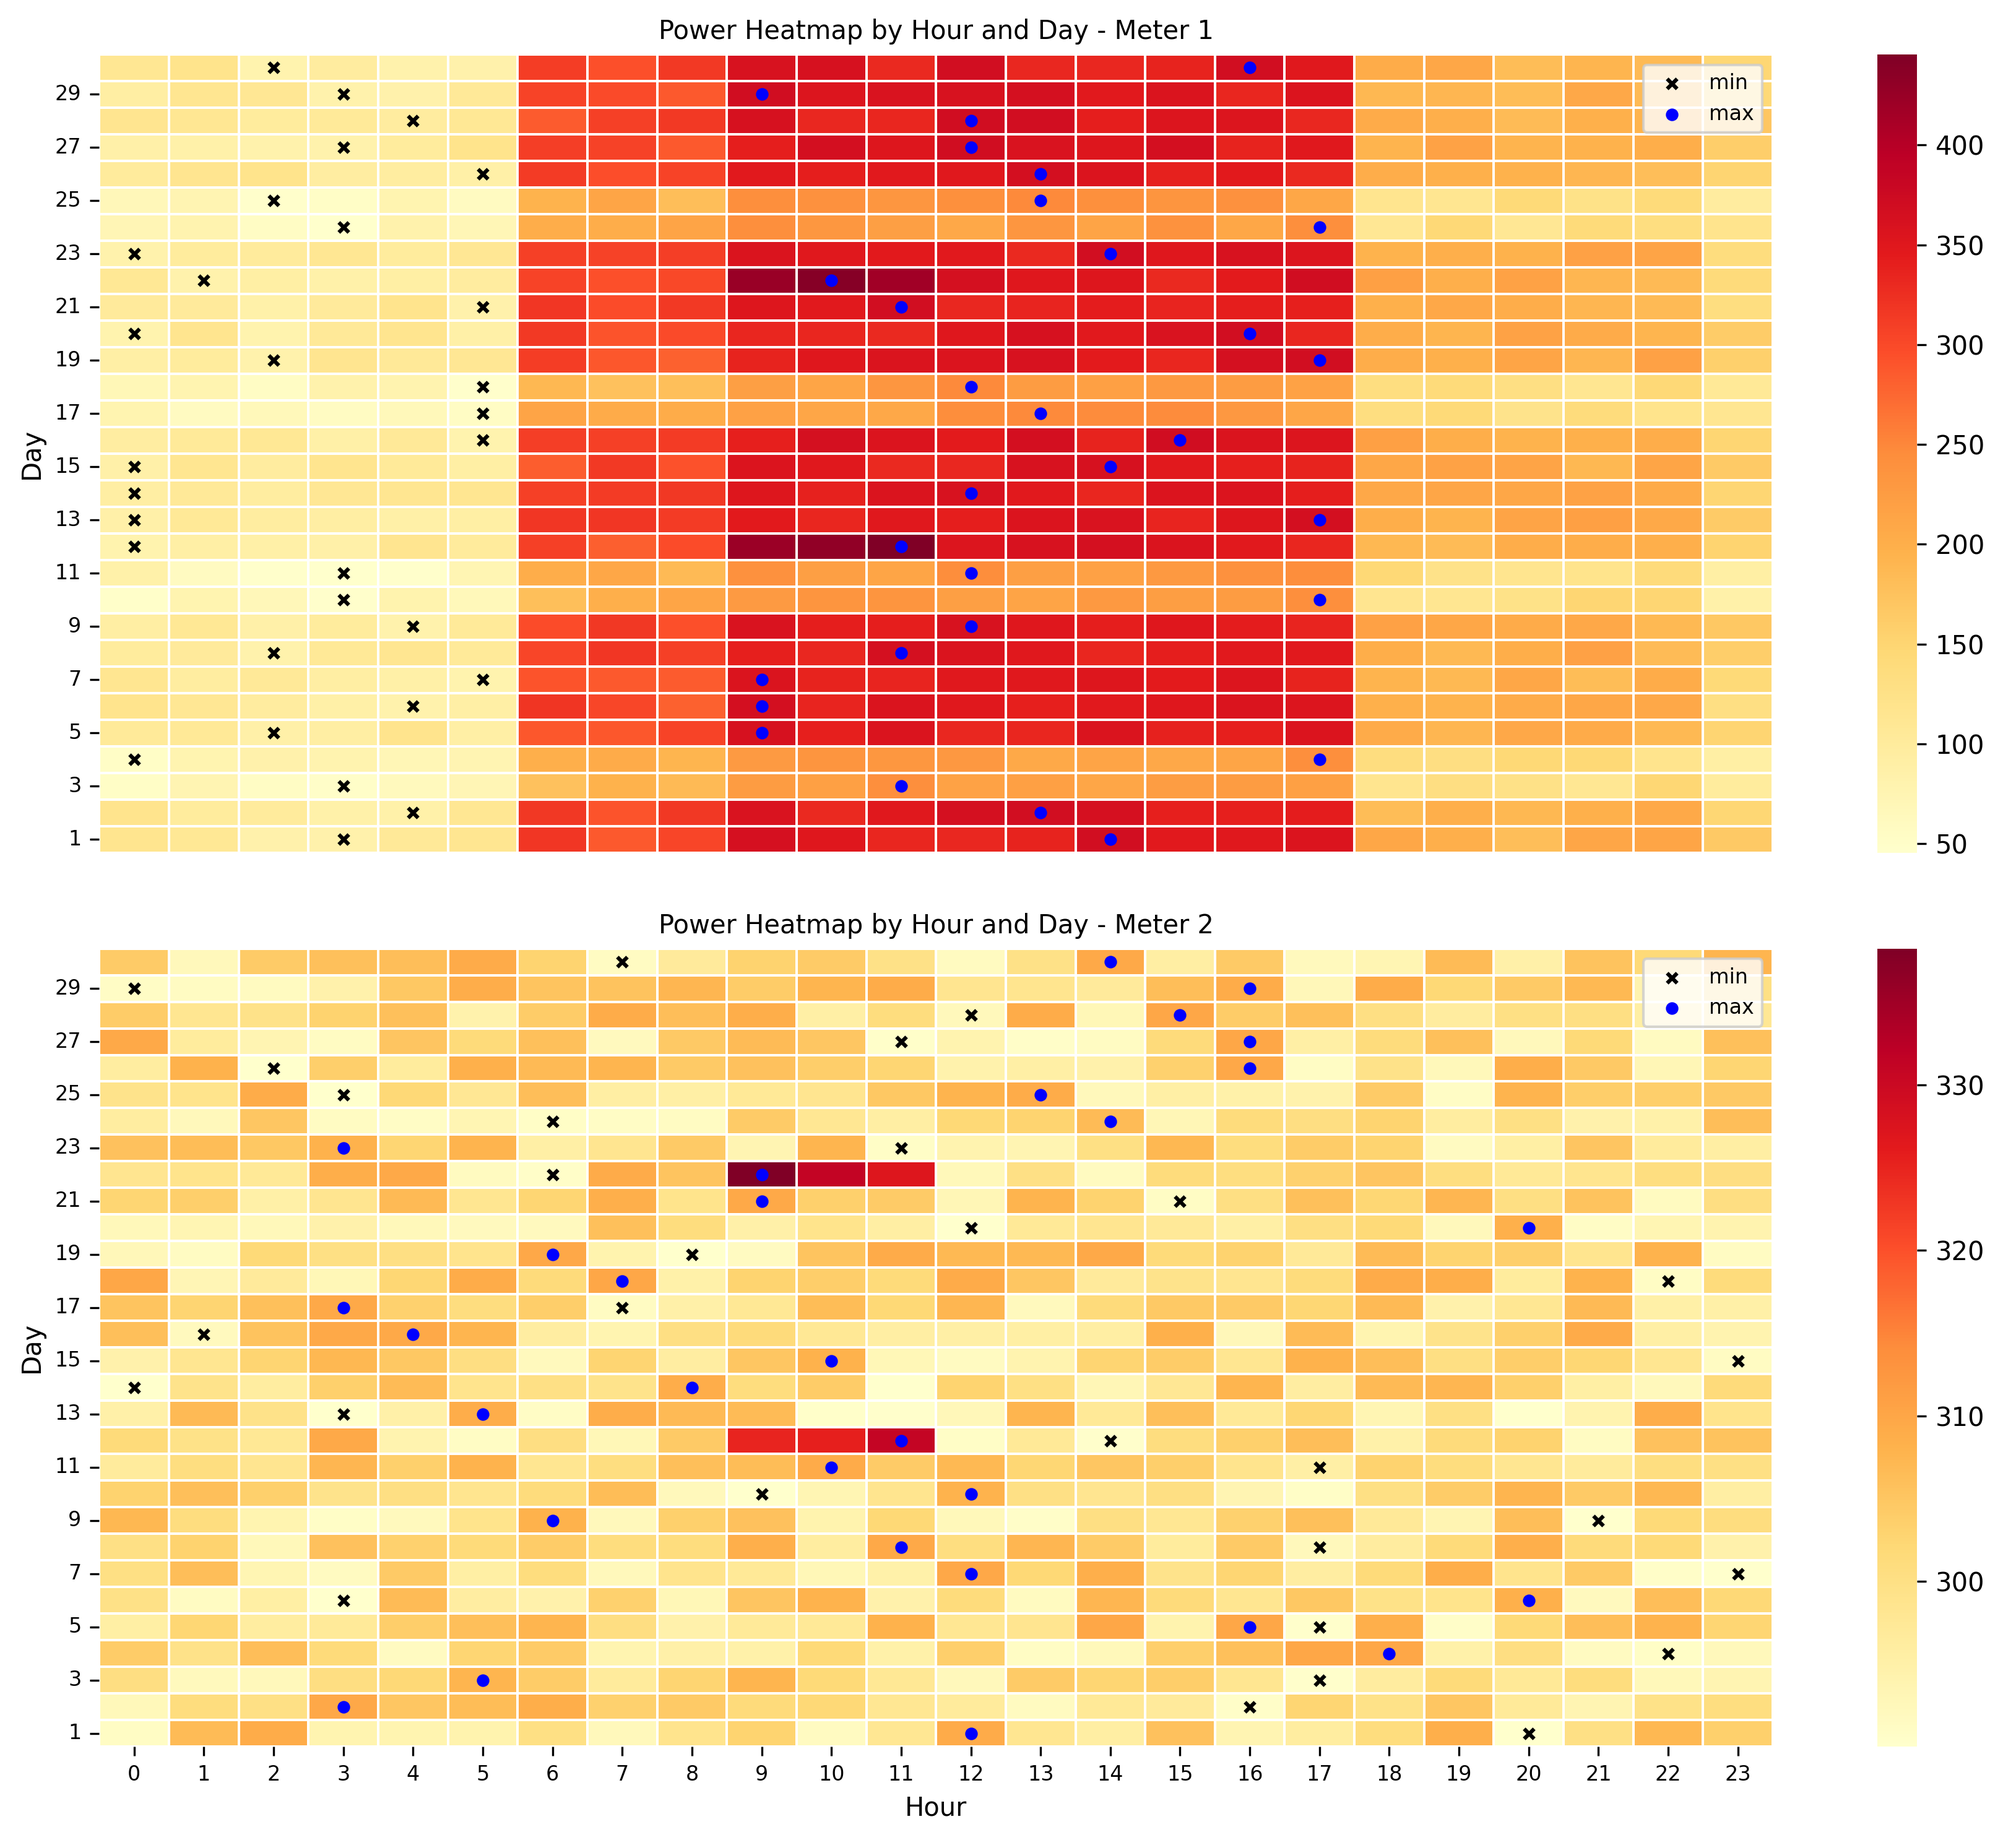
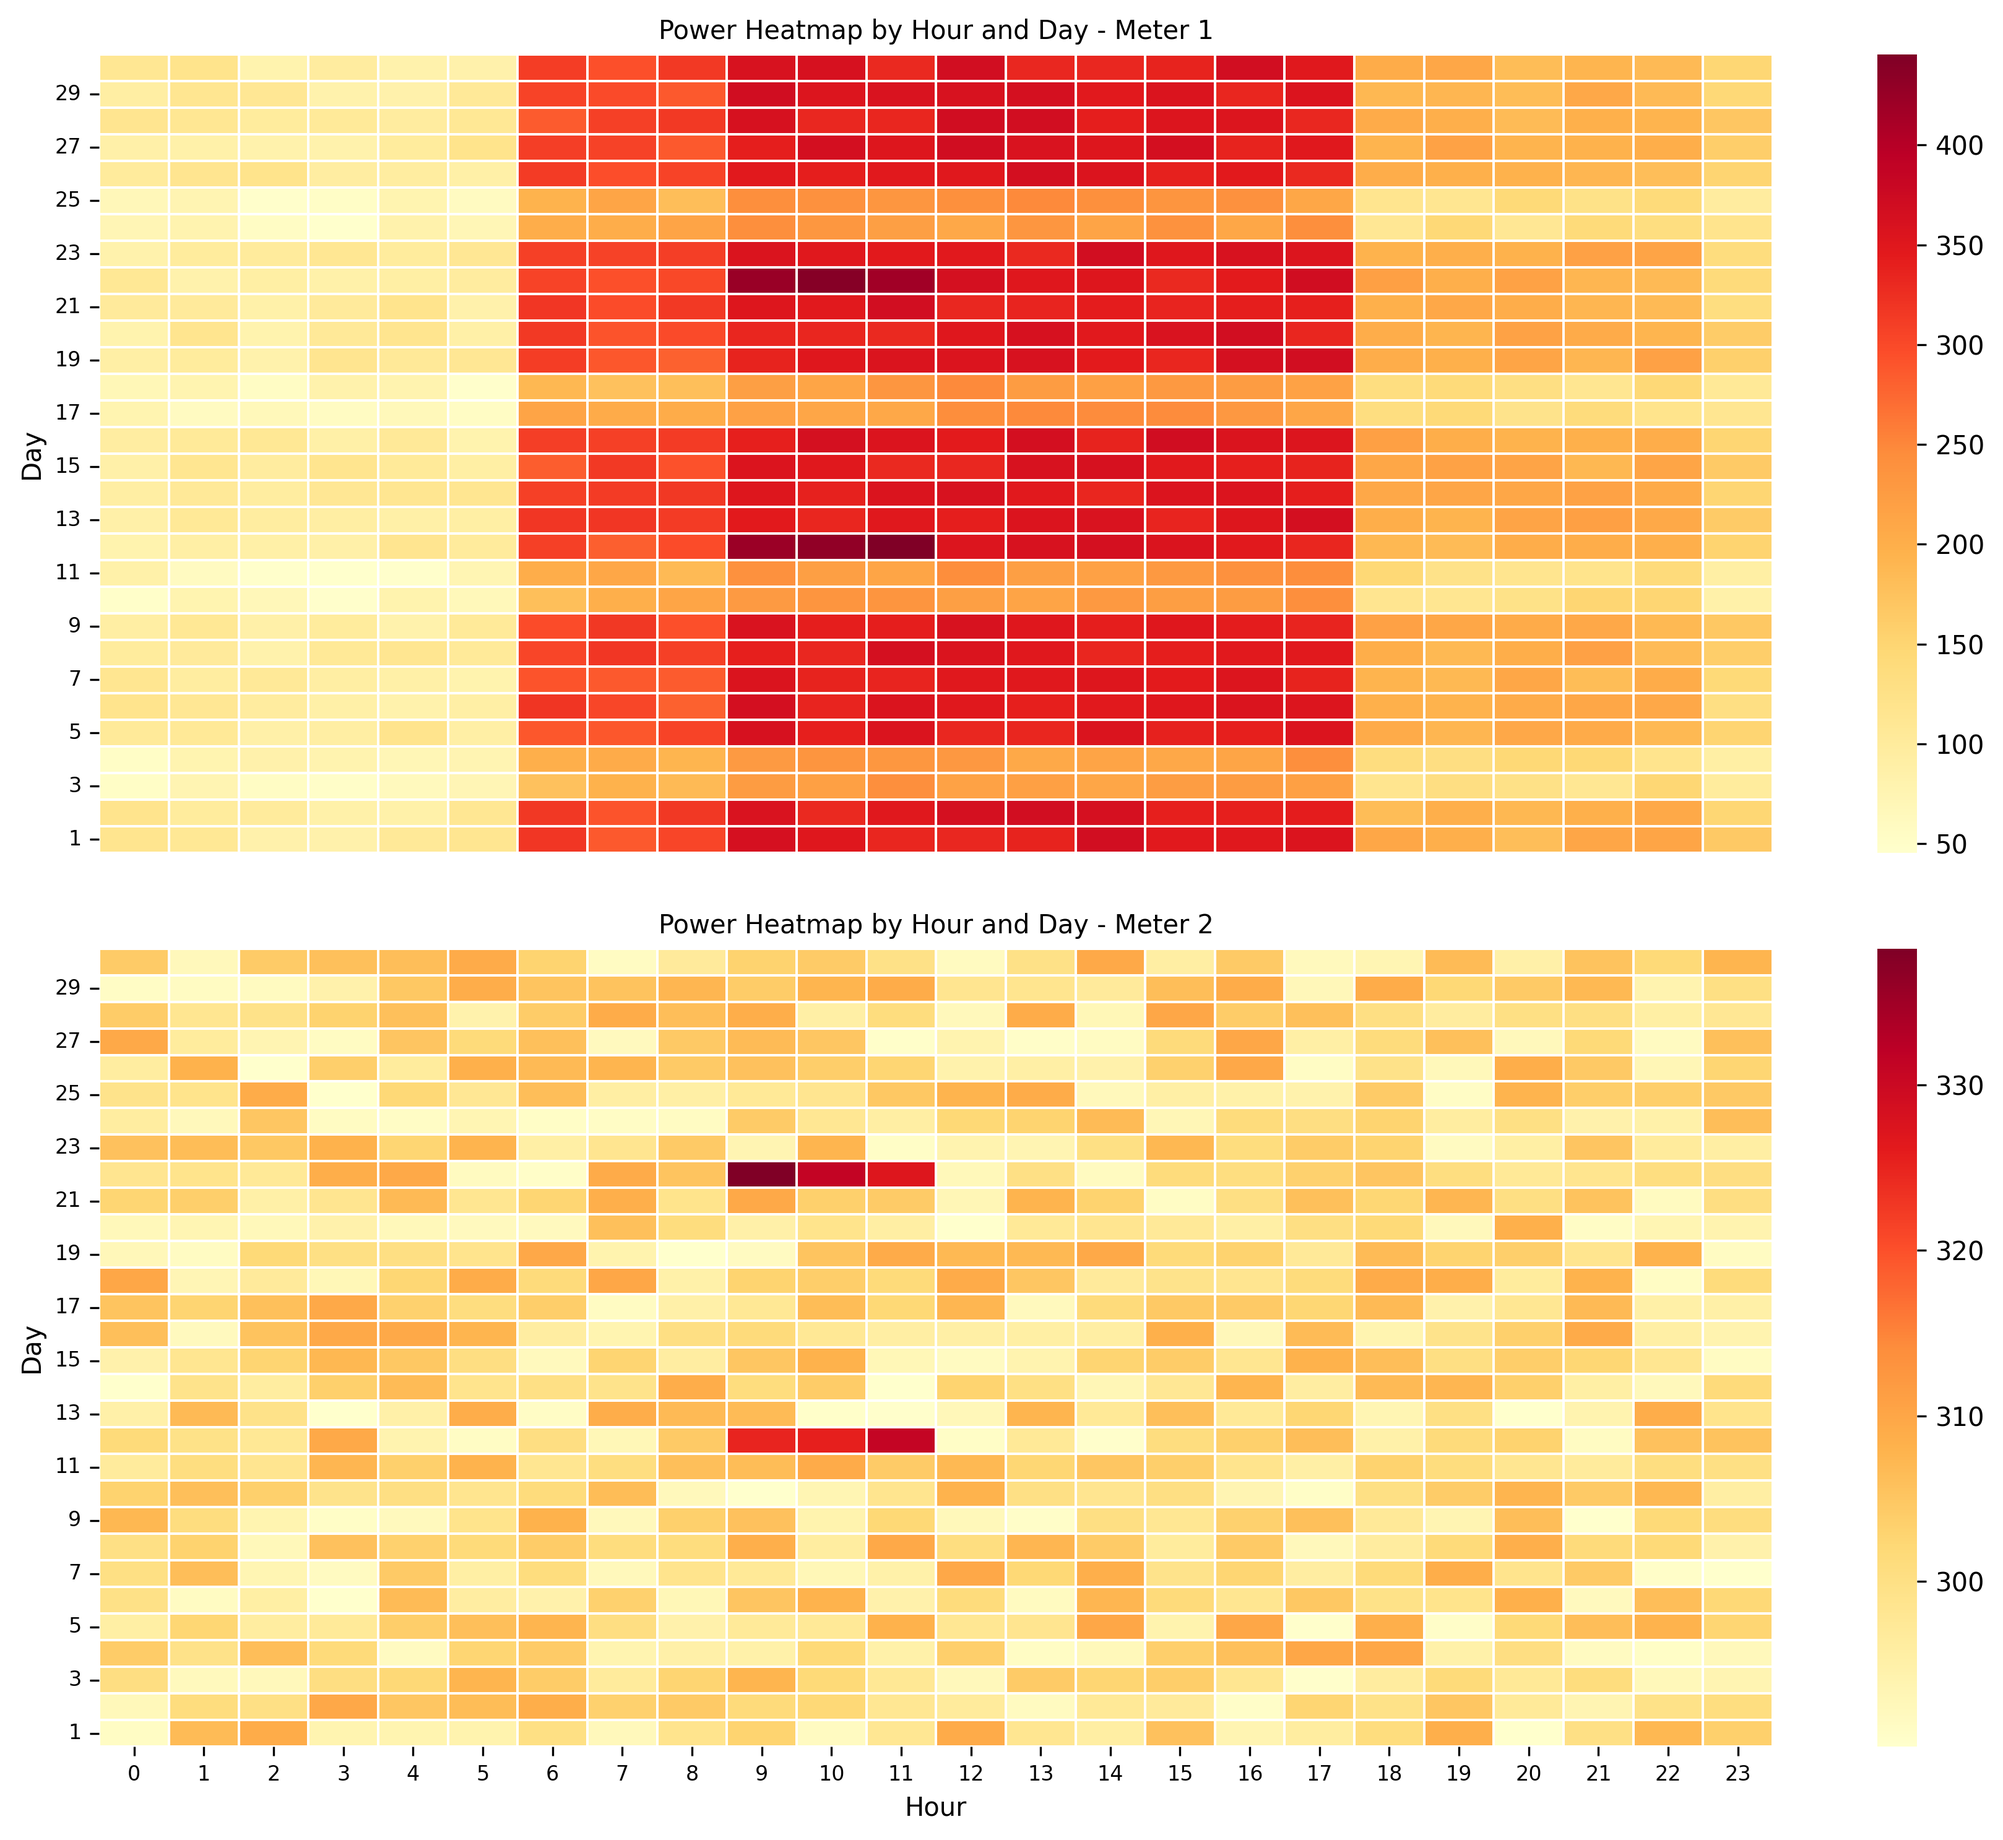
modification des scripts python pour améliorer l'affichage des résultats

Changed region(s): [[0.8115, 0.4951, 0.9051, 0.557], [0.8115, 0.0309, 0.9051, 0.0928]]

diff --git a/python/P2_exploratory_analysis.py b/python/P2_exploratory_analysis.py
@@ -131,23 +131,6 @@ def run(df, results_dir):
             # données Heatmap
             heat = df_type.pivot_table(index="jour", columns="heure", values="power_kw", aggfunc="mean")
             
-            # min et max par jour de la puissance
-            min_points = df_type.loc[df_type.groupby("jour")["power_kw"].idxmin()]
-            max_points = df_type.loc[df_type.groupby("jour")["power_kw"].idxmax()]
-
-            # créer un matrice booléenne de la même taille que heat (False partout au départ)
-            min_matrix = pd.DataFrame(False, index=heat.index, columns=heat.columns)
-            max_matrix = pd.DataFrame(False, index=heat.index, columns=heat.columns)
-            
-            # remplacer les false par des true là où les min et max sont identifiées
-            for _, row in min_points.iterrows():
-                if row["jour"] in heat.index and row["heure"] in heat.columns:
-                    min_matrix.loc[row["jour"], row["heure"]] = True
-
-            for _, row in max_points.iterrows():
-                if row["jour"] in heat.index and row["heure"] in heat.columns:
-                    max_matrix.loc[row["jour"], row["heure"]] = True
-
             # tracer heatmap
             sns.heatmap(heat, cmap='YlOrRd', linewidths=0.5, annot=False, ax=ax)
             ax.set_xlabel("Hour", fontsize=10)
@@ -160,16 +143,6 @@ def run(df, results_dir):
 
             # cacher l'axe X pour le premier subplot
             if i == 0: ax.xaxis.set_visible(False)
-
-            # récuperer toutes les positions où la valeur est True dans les matrices min_matrix et max_matrix
-            jours_min, heures_min = np.where(min_matrix)
-            jours_max, heures_max = np.where(max_matrix)
-            
-            # afficher les points min et max sur ta heatmap (au centre des cases concernées)
-            ax.scatter(heures_min+0.5, jours_min+0.5, color='black', marker='x', s=15, label='min')
-            ax.scatter(heures_max+0.5, jours_max+0.5, color='blue', marker='o', s=15, label='max')
-
-            ax.legend(loc="upper right", fontsize=8)
             
 
         plt.tight_layout(h_pad=2)

diff --git a/python/P6_machine_learning_models.py b/python/P6_machine_learning_models.py
@@ -18,6 +18,8 @@ def run(df, results_dir):
         corr_lag0 = corr_lag[0]  
         best_lag = np.argmin(corr_lag)
         best_corr = corr_lag[best_lag]
+
+        print(f"\nCompteur {meter_id} - Regression linéaire vs Random Forest : ")
         
         for i, use_shifted in enumerate([False, True]):
 
@@ -32,6 +34,7 @@ def run(df, results_dir):
             y_pred = coef[0]*x + coef[1]
             mae = mean_absolute_error(y, y_pred)
             rmse = np.sqrt(mean_squared_error(y, y_pred))
+            
 
             title = f"Meter {meter_id} ({f'Lag 0, Corr = {corr_lag0:.2f}' if not use_shifted else f'Optimal Lag = {best_lag}h, Corr = {best_corr:.2f}'})"
 
@@ -47,6 +50,8 @@ def run(df, results_dir):
             if i == 1: ax_lr.xaxis.set_visible(False)
             if i == 1: ax_lr.yaxis.set_visible(False)
             ax_lr.tick_params(axis='y', labelsize=8)
+
+            print(f"\nRegression linéaire ({f'Lag 0, Corr = {corr_lag0:.2f}' if not use_shifted else f'Optimal Lag = {best_lag}h, Corr = {best_corr:.2f}'}) : Coef={coef}, MAE={mae:.2f}, RMSE={rmse:.2f}")
 
             # Random Forest
             X_rf = x.reshape(-1,1)
@@ -69,6 +74,8 @@ def run(df, results_dir):
             if i == 1: ax_rf.yaxis.set_visible(False)
             ax_rf.tick_params(axis='x', labelsize=8)
             ax_rf.tick_params(axis='y', labelsize=8)
+
+            print(f"Random Forest ({f'Lag 0, Corr = {corr_lag0:.2f}' if not use_shifted else f'Optimal Lag = {best_lag}h, Corr = {best_corr:.2f}'}) : MAE={mae_rf:.2f}, RMSE={rmse_rf:.2f}")
 
         plt.tight_layout(h_pad=3, w_pad=2)
         plt.savefig(os.path.join(results_dir, "11_linear_regression_vs_random_forest.png"), dpi=300, bbox_inches='tight', facecolor='white')

diff --git a/python/P4_anomaly_detection.py b/python/P4_anomaly_detection.py
@@ -90,9 +90,9 @@ def run(df, results_dir):
 
         # --- Tableau récapitulatif ---
         df_anomalies = pd.concat(all_anomalies).sort_values(["meter_id", "method", "timestamp"])
-        print("\n=== Tableau des anomalies par meter_id et méthode ===")
+        print("\nTableau des anomalies par compteur et méthode :")
         for meter_id, df_meter_group in df_anomalies.groupby("meter_id"):
-            print(f"\n--- Meter {meter_id} ---")
+            print(f"\nCompteur {meter_id} : ")
             for method, df_method_group in df_meter_group.groupby("method"):
                 print(f"\nMéthode : {method}")
                 print(df_method_group[["timestamp", "power_kw"]].reset_index(drop=True))

diff --git a/python/P1_data_loading_cleaning.py b/python/P1_data_loading_cleaning.py
@@ -29,7 +29,7 @@ def run():
 
 
     #!  Nettoyage et structuration des données
-    print("Contrôle de qualité des données :")
+    print("\nContrôle de qualité des données :")
 
     # Vérifier des valeurs manquantes (NaN)
     print("Nombre total de valeurs manquantes dans le DataFrame :", df.isna().sum().sum())
@@ -85,7 +85,7 @@ def run():
     df["energy_cum_kwh"] = (df.groupby("meter_id")["energie_kwh"].cumsum())
 
     # Test d'affichage des 2 premières lignes
-    print("Test d'affichage de 2 premières lignes de DataFrame :")
+    print("\nTest d'affichage de 2 premières lignes de DataFrame :")
     print(df.head(2))
 
     return df
